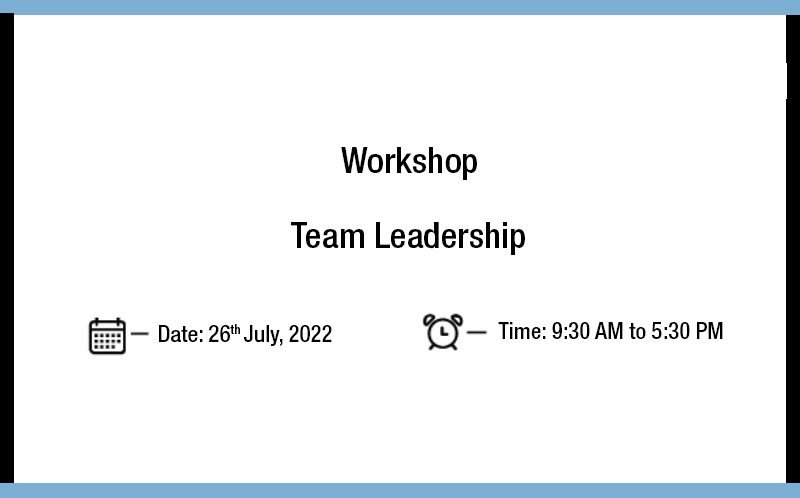
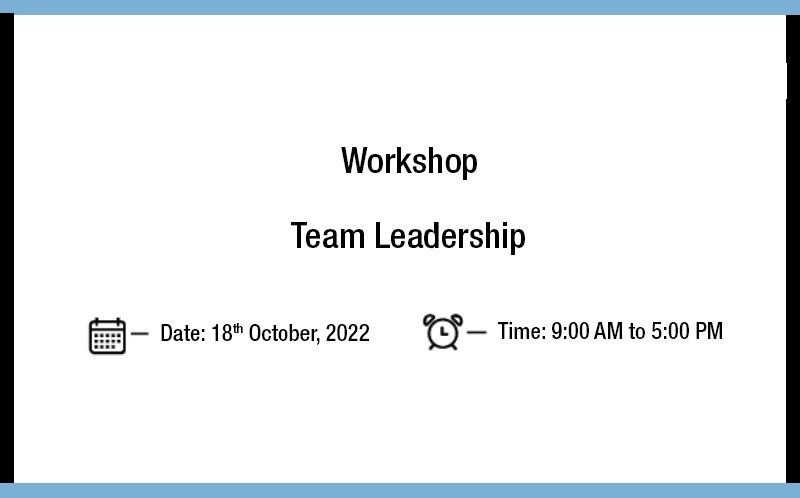
dd

Changed region(s): [[0.1875, 0.6325, 0.4688, 0.6928], [0.625, 0.6325, 0.8125, 0.6928], [0.8438, 0.6325, 0.9062, 0.6928]]

diff --git a/pages/forms/change-scan-assessment.js b/pages/forms/change-scan-assessment.js
@@ -2,7 +2,15 @@ import Link from "next/link"
 import Head from "next/head"
 
 export default function EdgeManagerAssessment() {
+
+   //   document.contactForm.onclick = function(){
+   //       var radVal = document.contactForm.qq1.value;
+   //       result.innerHTML = 'You selected: '+radVal;
+   //   }
+     
    const registerUser = async event => {
+      
+      
       event.preventDefault()
 
       document.getElementById("submitbuttonform").value = "Submitting form...."
@@ -102,7 +110,7 @@ export default function EdgeManagerAssessment() {
                             <p>IDENTIFY the change initiative, then READ each statement below. For statements 1 through 24, select the response that indicates your level of agreement. For statement 25, select the phrase that best describes your attitude about this change.</p>
                             <p><b>Before we begin, please share the following details –</b></p>
                             
-                           <form id="contactForm" onSubmit={registerUser}>
+                           <form id="contactForm" name="contactForm" onSubmit={registerUser}>
                               <div className="row">
                         
 
@@ -122,6 +130,35 @@ export default function EdgeManagerAssessment() {
                                     <div className="form-group">
                                     <h4>Let us begin –</h4>
                                     <textarea name="messagebox" className="form-control" id="messagebox" cols="30" rows="3" placeholder="What is the change initiative?" />
+                                    </div>
+                                 </div>
+
+                                 <div className="col-lg-12">
+                                    <div className="form-group">
+                                       <label>Move toward what is uncomfortable or createsof vulnerability</label><br/>
+                                        <input type="radio" id="qq11" name="qq1" value="1" required/>
+                                          <label for="qq11">1</label><br/>
+                                        <input type="radio" id="qq12" name="qq1" value="2" required/>
+                                          <label for="qq12">2</label><br/>
+                                         <input type="radio" id="qq13" name="qq1" value="3" required/>
+                                          <label for="qq13">3</label><br/>
+                                          <input type="radio" id="qq14" name="qq1" value="4" required/>
+                                          <label for="qq14">4 </label>
+                                    </div>
+                                 </div>
+                                 {/* <span id="result"></span> */}
+
+                                 <div className="col-lg-12">
+                                    <div className="form-group">
+                                       <label>Tell me truth about what is and what needs to change</label><br/>
+                                        <input type="radio" id="qq21" name="qq2" value="1" required/>
+                                          <label for="qq21">1</label><br/>
+                                        <input type="radio" id="qq22" name="qq2" value="2" required/>
+                                          <label for="qq22">2</label><br/>
+                                         <input type="radio" id="qq23" name="qq2" value="3" required/>
+                                          <label for="qq23">3</label><br/>
+                                          <input type="radio" id="qq24" name="qq2" value="4" required/>
+                                          <label for="qq24">4 </label>
                                     </div>
                                  </div>
       

diff --git a/pages/lp/team-leadership-lp-workshop.js b/pages/lp/team-leadership-lp-workshop.js
@@ -101,7 +101,7 @@ export default function TeamLeadershipLPWorkshop() {
                            <div className="form-group">
                               <label>Program Name*</label>                              
                               <select className="form-control" name="interest_in" required>
-                                 <option value="Team Leadership Workshop: 26th July, 2022">Team Leadership Workshop: 26th July, 2022</option>
+                                 <option value="Team Leadership Workshop: 8th October, 2022">Team Leadership Workshop: 8th October, 2022</option>
                               </select>
                               <div className="help-block with-errors"></div>
                            </div>
